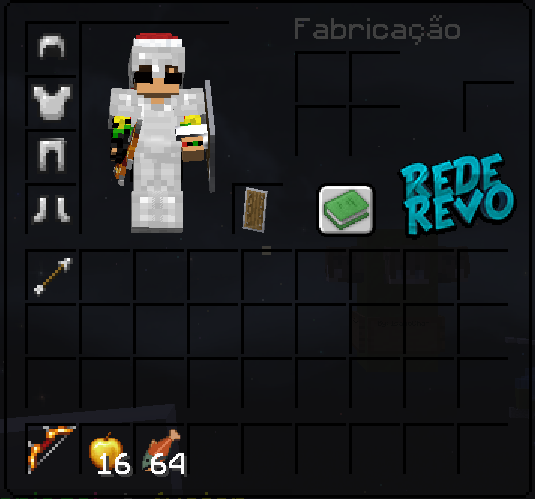
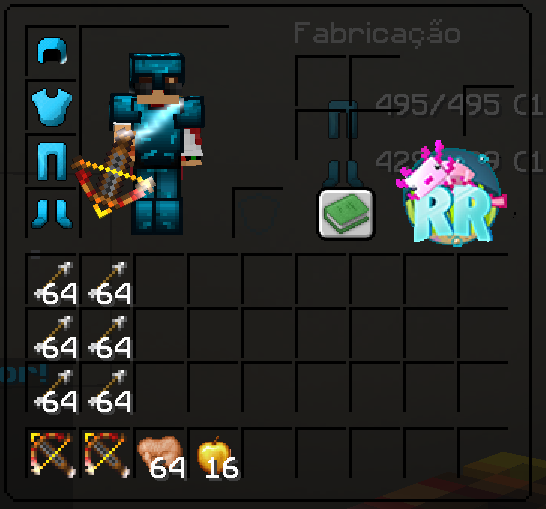
GitBook: [#284] correções no evento besteiro

Changed region(s): [[0.0, 0.0, 1.0, 1.0], [0.3888, 0.3307, 0.4187, 0.3908], [0.0598, 0.481, 0.0897, 0.511]]

diff --git a/eventos/eventos-do-servidor/evento-arqueiro.md b/eventos/eventos-do-servidor/evento-arqueiro.md
@@ -11,7 +11,7 @@ coverY: 0
 * Usando apenas Arco e Flecha, mate o ultimo sobrevivente na arena e torne-se o vencedor ou mate a maior quantidade de inimigos e torne-se o matador;
 * Itens definidos pela equipe; (armadura de ferro, escudo, 16 maças dourada, 64 salmões assados, arco com infinidade, força 1, durabilidade 3 e uma flecha);
 
-![](<../../.gitbook/assets/image (2).png>)
+![](<../../.gitbook/assets/image (2) (3).png>)
 
 * As habilidades do mcMMO serão desativadas durante o evento;
 * Borda que reduz no decorrer da batalha;\
